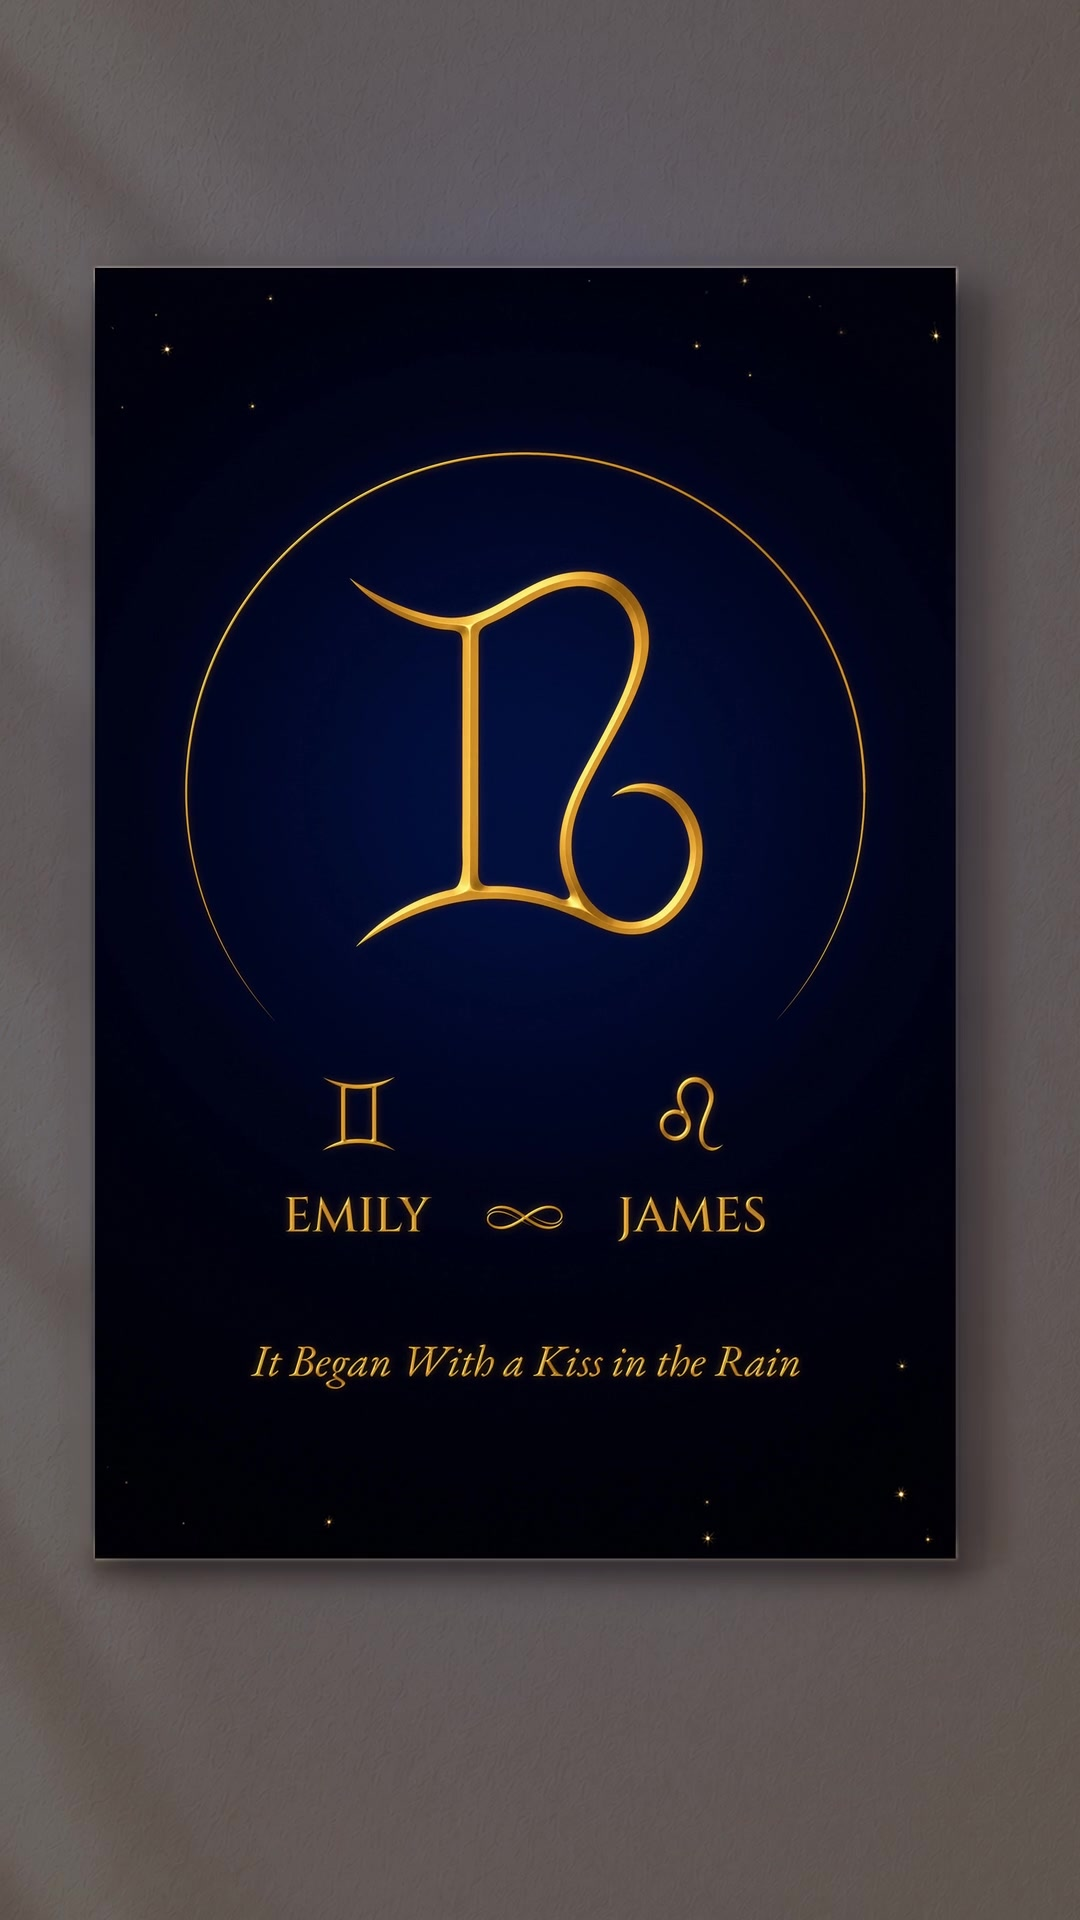
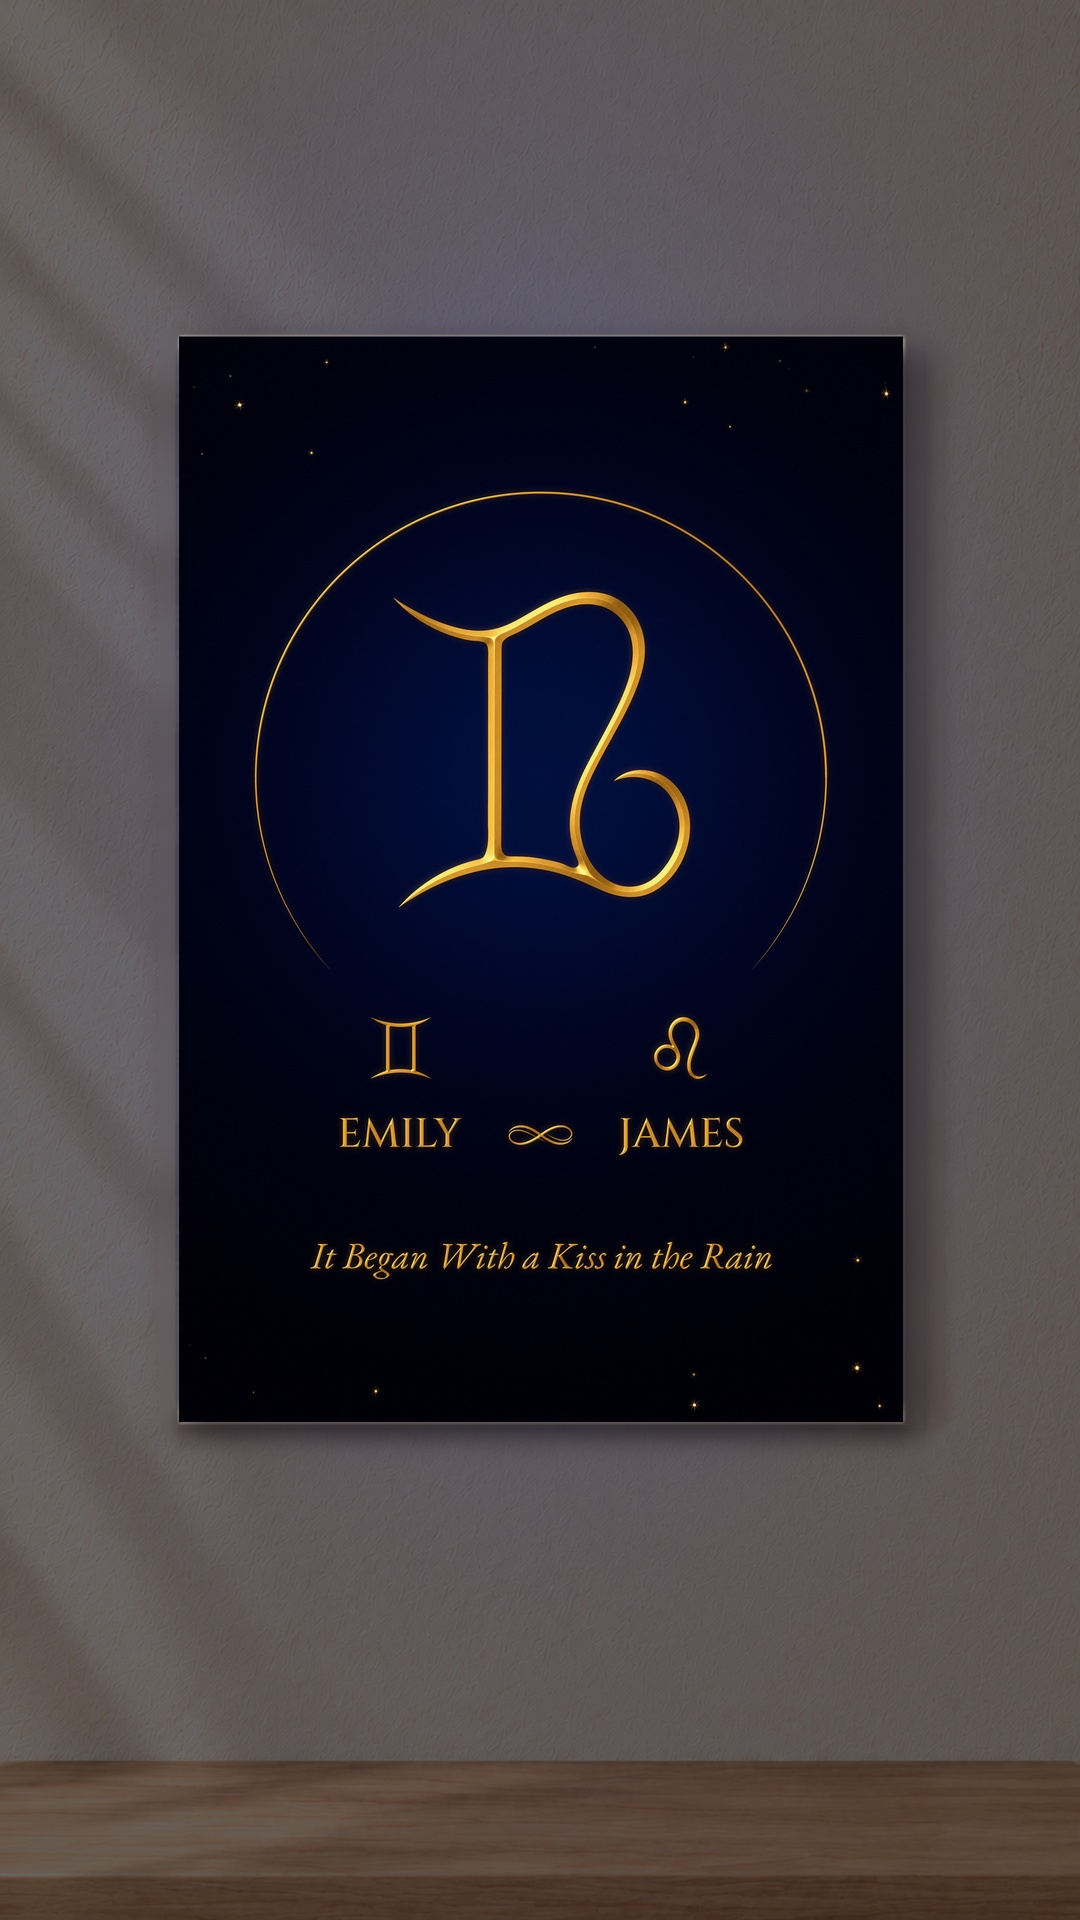
sosyal: birlesik sembol yorungede %65 (Serdar secimi 12 Eki); soru isareti ayni; onayli Gemini & Leo referanslari (pin P2, IG 2, video kareleri) yeni boya gore guncellendi
Claude-Session: https://claude.ai/code/session_018RBnEA32QZ2E2PWYsKu1q9

diff --git a/sosyal/pin_v6/pin_uret.py b/sosyal/pin_v6/pin_uret.py
@@ -128,7 +128,7 @@ def sign_pair(P, sign_h, max_w_ratio=1.3):
 
 GEMINI_LEO_ASPECT = 0.941638608305275      # w/h of the merged-symbol layer in the approved Gemini & Leo design
 GEMINI_LEO_SIGNS = 0.9635                  # mean sqrt(w*h) of the two small signs / sign_h in that design
-CENTER_SCALE = 1.0                          # global size of the centre symbol vs. the 12 Oct design (Serdar decides)
+CENTER_SCALE = 0.65                         # merged symbol in the orbit at 65% of the first design (Serdar, 12 Oct 2026)
 
 
 def sign_size(a, b, sign_h):
@@ -141,14 +141,16 @@ def center_scaled(layer, ref_h, a, b, sign_h, kind='merged'):
     """Centre symbol sized like the approved Gemini & Leo design (ref_h tall there):
     - its visual size (sqrt of width x height) matches that design, so a wide symbol gets lower, not wider;
     - it never gets taller than there;
-    - when the small signs look smaller than there (e.g. a wide Aquarius), the centre gets smaller by the same factor.
-    kind='q' for the question mark (its own shape, only height and the sign factor apply)."""
-    f = min(1.0, sign_size(a, b, sign_h)) * CENTER_SCALE
-    if kind == 'q':
+    - when the small signs look smaller than there (e.g. a wide Aquarius), the centre gets smaller by the same factor;
+    - the merged symbol is then set to CENTER_SCALE of that size (Serdar: 65%).
+    kind='q' for the question mark: its own shape, only height and the sign factor apply, no CENTER_SCALE."""
+    f = min(1.0, sign_size(a, b, sign_h))
+    if kind == 'q':                                   # the question mark keeps its approved size
         k = ref_h * f / layer.size[1]
-    else:
-        target = ref_h * GEMINI_LEO_ASPECT ** 0.5 * f
-        k = min(target / (layer.size[0] * layer.size[1]) ** 0.5, ref_h * f / layer.size[1])
+        return layer.resize((max(1, round(layer.size[0] * k)), max(1, round(layer.size[1] * k))), Image.LANCZOS)
+    f *= CENTER_SCALE
+    target = ref_h * GEMINI_LEO_ASPECT ** 0.5 * f
+    k = min(target / (layer.size[0] * layer.size[1]) ** 0.5, ref_h * f / layer.size[1])
     return layer.resize((max(1, round(layer.size[0] * k)), max(1, round(layer.size[1] * k))), Image.LANCZOS)
 
 
